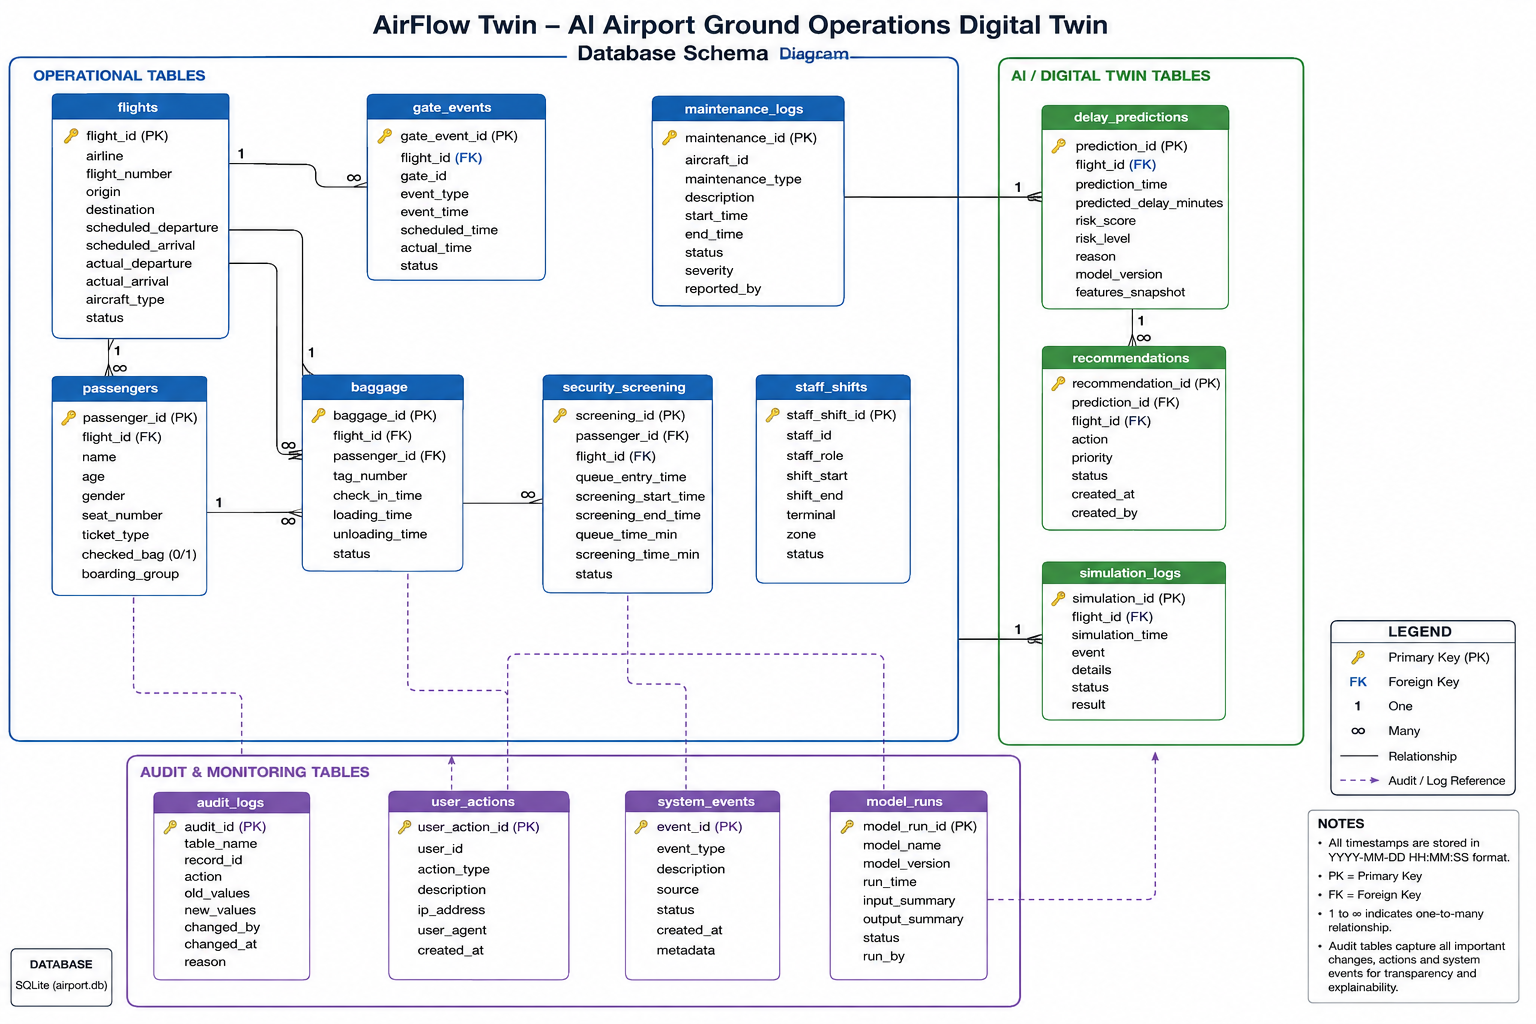
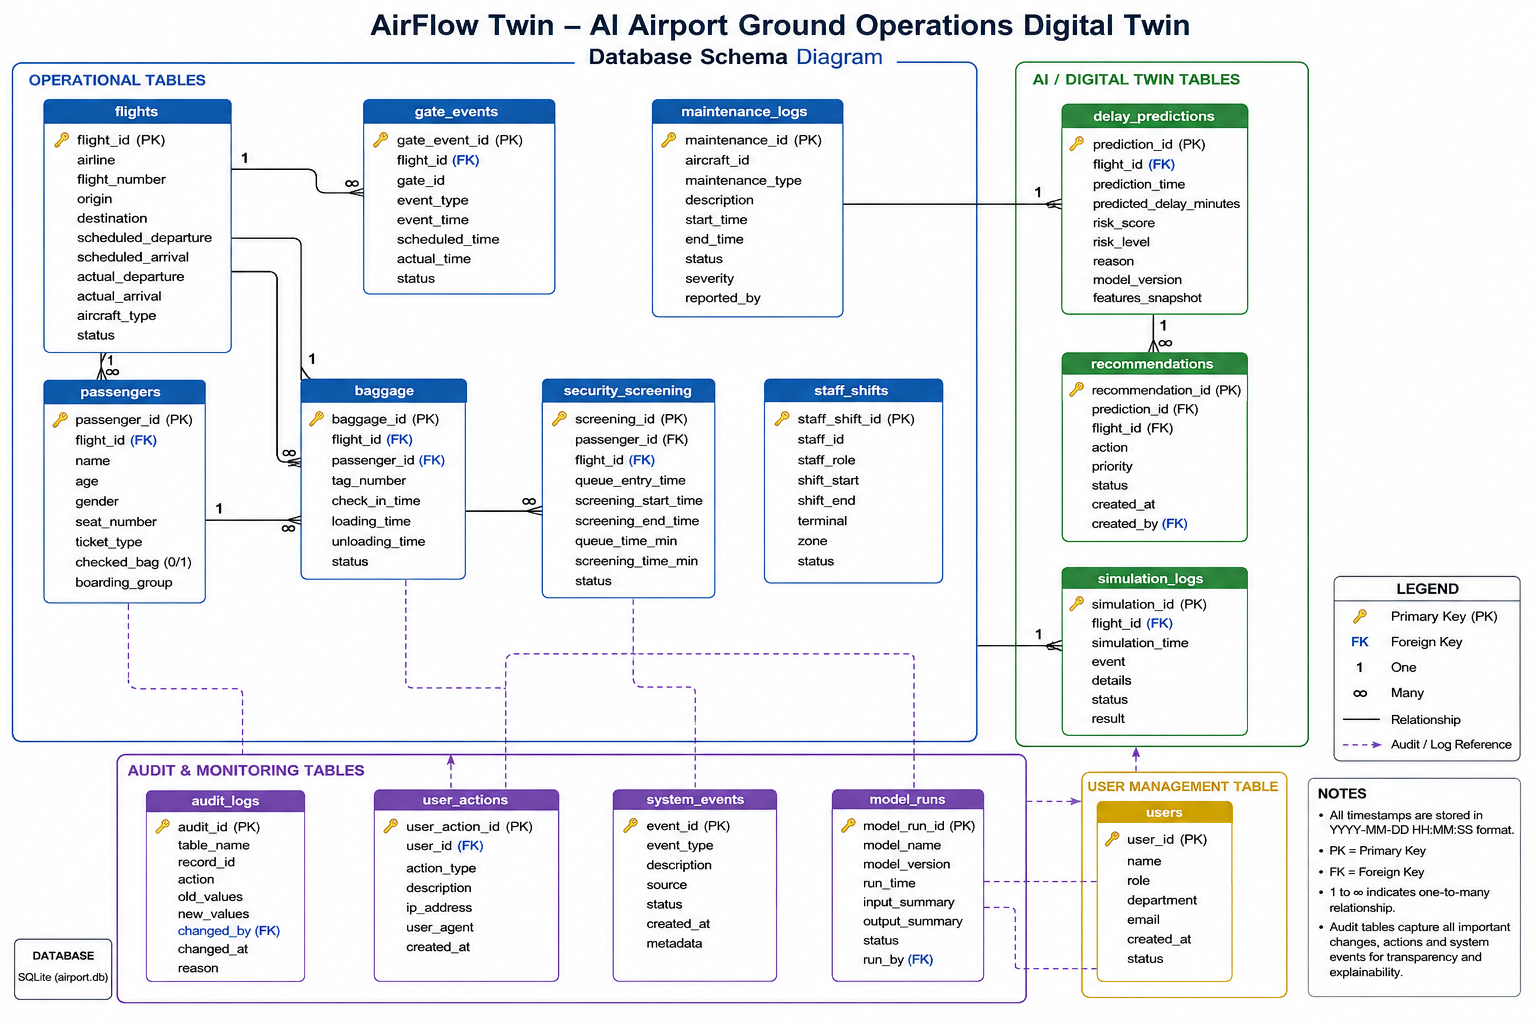
Add users table and seed initial user data

diff --git a/database/schema.py b/database/schema.py
@@ -32,6 +32,7 @@ def reset_tables(cursor):
         "user_actions",
         "system_events",
         "model_runs",
+        "users",
     ]
 
     for table in tables:
@@ -213,5 +214,15 @@ def create_tables(cursor):
         output_summary TEXT,
         status TEXT,
         created_at TEXT DEFAULT CURRENT_TIMESTAMP
+    )
+    """)
+
+    cursor.execute("""
+    CREATE TABLE users (
+        user_id TEXT PRIMARY KEY,
+        name TEXT NOT NULL,
+        role TEXT NOT NULL,
+        department TEXT,
+        created_at TIMESTAMP DEFAULT CURRENT_TIMESTAMP
     )
     """)

diff --git a/database/seed.py b/database/seed.py
@@ -279,3 +279,11 @@ def seed_data(cursor, num_flights=300):
             random.choice(["INFO", "WARNING", "ERROR"])
         ))
 
+    cursor.execute("""
+        INSERT INTO users VALUES
+        ('admin','Administrator','admin','IT',CURRENT_TIMESTAMP),
+        ('demo_user','Demo User','operator','Operations',CURRENT_TIMESTAMP),
+        ('operator_1','Operator 1','operator','Operations',CURRENT_TIMESTAMP),
+        ('operator_2','Operator 2','operator','Operations',CURRENT_TIMESTAMP),
+        ('system','System','system','AI',CURRENT_TIMESTAMP)
+    """)